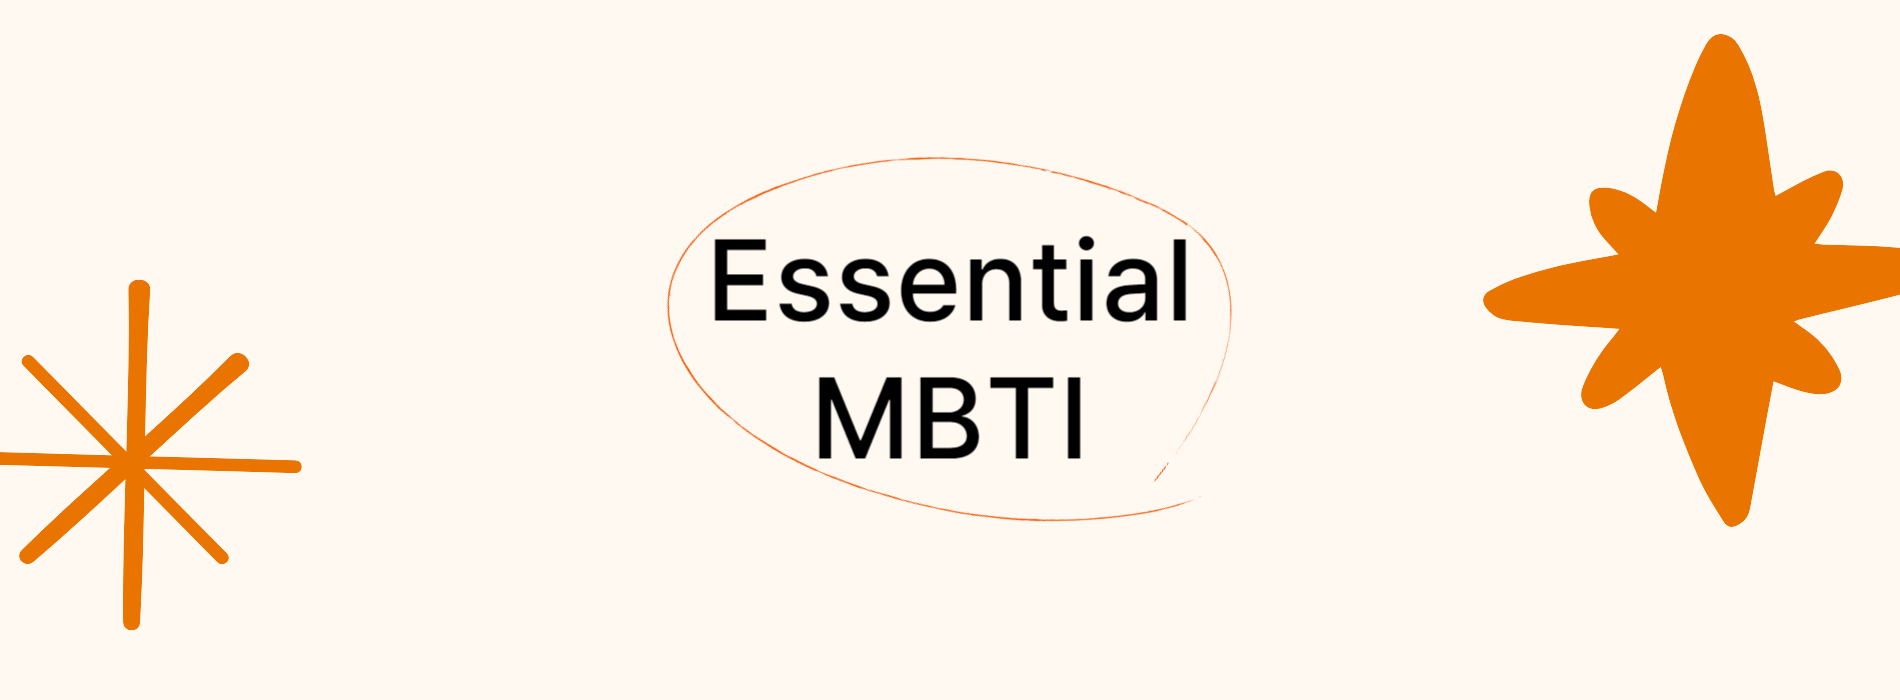
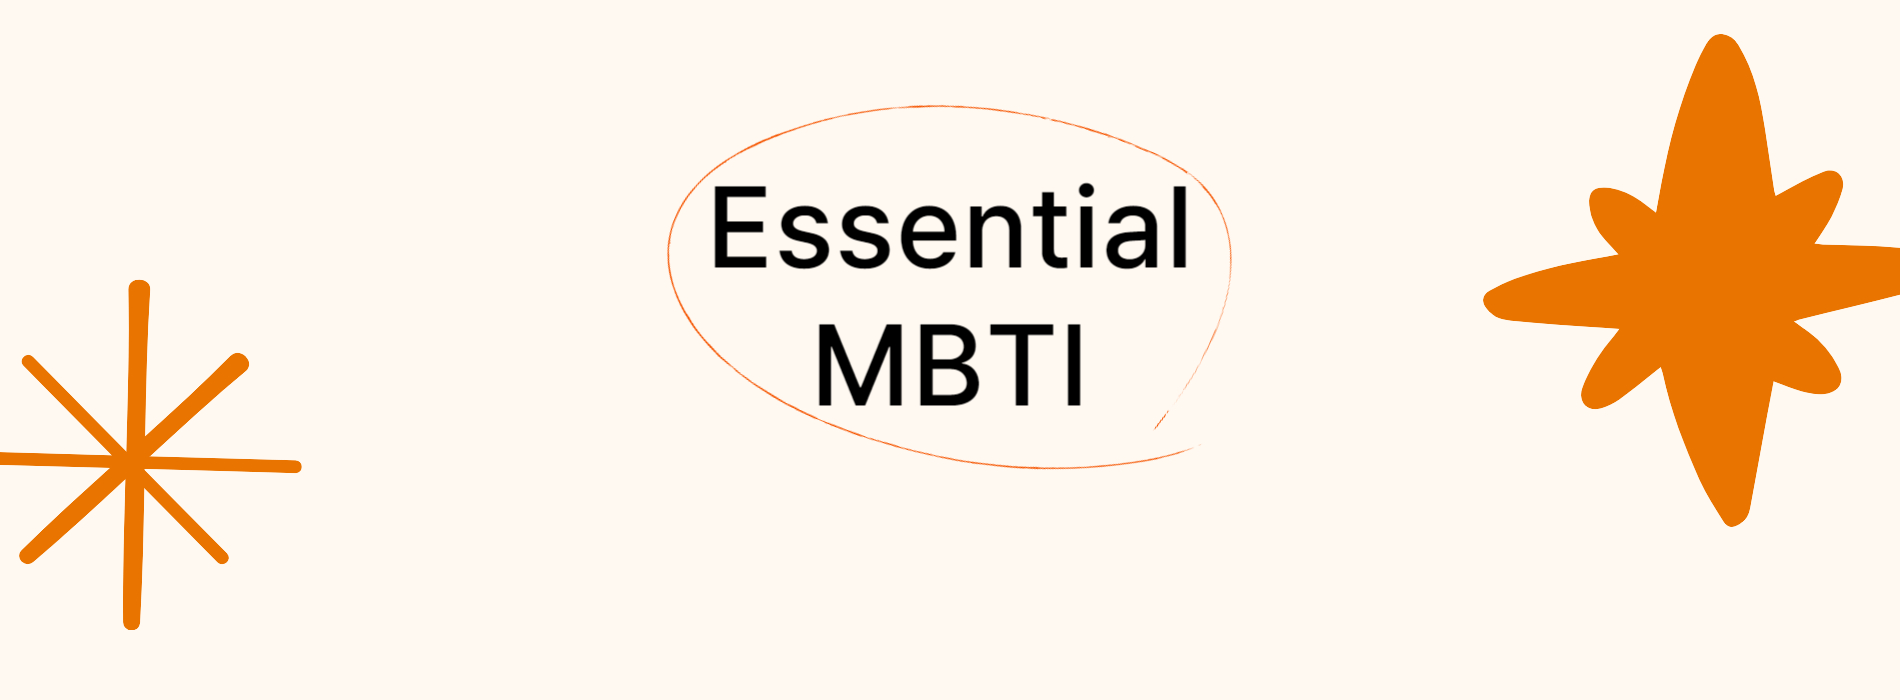
09-06 메인 인덱스에서 mbti 검사로 연결

diff --git a/src/main/webapp/admin-css-js/css/mbti.css b/src/main/webapp/admin-css-js/css/mbti.css
@@ -43,13 +43,11 @@ input#mbti-search-area {
 
 #mbti-title{
 	margin:0 auto;
-	margin-top: -200px;
+	margin-top: -60px;
 	text-align: center;
 	width: 100%;
 	height: 3000px;
-	background-image: url("../../images/mbti_main.jpg");
-	background-size: 70%;
-	background-position:top;
+	background-image: url("../../images/MBTI.jpg");
 	background-repeat: no-repeat;
 }
 #mbti-div {
@@ -58,13 +56,14 @@ input#mbti-search-area {
     height: 200px;
 }
 #frm-mbti1{
-	margin-top: 230px;
+	margin-left: 303px;
 	width: 200px;
 	float: left;
 }
 #mbti-precise-button{
-	margin-top: 680px;
-	float: right;
+	margin-top: -70px;
+	margin-left: 530px;
+	float: left;
 }
 .mbti-writer{
 	width: 130px;
@@ -104,7 +103,6 @@ button.mbti-button2{
 	height: 70px;
 	width:  200px;
 	font-size: 24px;
-	font-weight: bold;
     border:0;
 	border-radius: 100px;
 	padding: 6px 41px;
